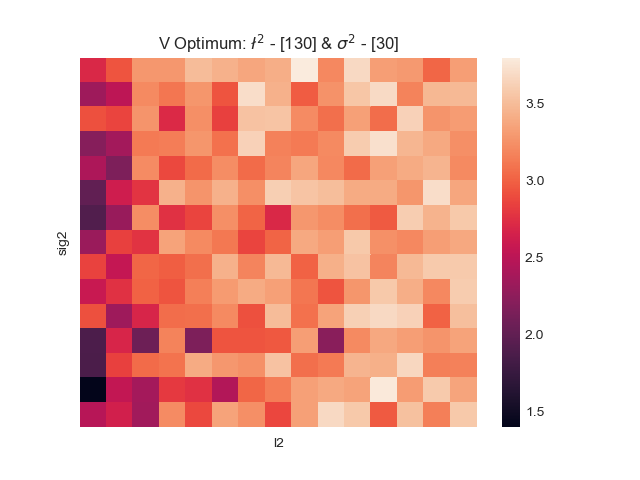
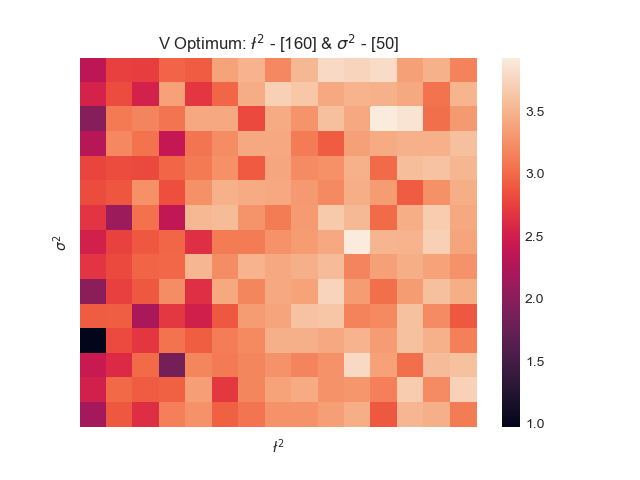
readme complete and symbols in plots updated

diff --git a/OceanFlow.py b/OceanFlow.py
@@ -326,8 +326,8 @@ def hyperparameter_optimization(direction_vector, direction, hyperparameters):
     ax.set_yticklabels(list(sig2))
     ax.set_xticks(np.arange(len(l2)))
     ax.set_yticks(np.arange(len(sig2)))
-    ax.set_xlabel("l2")
-    ax.set_ylabel("sig2")
+    ax.set_xlabel('$\l^2$')
+    ax.set_ylabel('$\sigma^2$')
     ax.set_title(f"{direction} Optimum: $\l^2$ - {max_likelihood['l2']} & $\sigma^2$ - {max_likelihood['sig2']}")
     plt.savefig(f"OceanFlowImages/{direction.upper()}_Parameter_Optimization_Heatmap.png", format="png")
     plt.show()
@@ -335,9 +335,9 @@ def hyperparameter_optimization(direction_vector, direction, hyperparameters):
     fig = plt.figure()
     ax = plt.axes(projection='3d')
     ax.plot_surface(l2_mesh, sig2_mesh, log_like, cmap=cm.coolwarm)
-    ax.set_title(f"{direction} Optimum: l2 - {max_likelihood['l2']} sig2 - {max_likelihood['sig2']}")
-    ax.set_xlabel("l2")
-    ax.set_ylabel("sig2")
+    ax.set_title(f"{direction} Optimum: $\l^2$ - {max_likelihood['l2']} & $\sigma^2$ - {max_likelihood['sig2']}")
+    ax.set_xlabel("$\l^2$")
+    ax.set_ylabel("$\sigma^2$")
     ax.set_zlabel("Log Likelihood")
     norm = mpl.colors.Normalize(vmin=np.min(log_like), vmax=max_likelihood["max_likelihood"])
     fig.colorbar(cm.ScalarMappable(norm=norm, cmap=cm.coolwarm), ax=ax)
@@ -359,6 +359,7 @@ def main():
         9. Optimizes the hyperparameters for both directions to give the highest log likelihood and prints the results
         10. Plots the Gaussian posterior with optimized hyperparameters
         """
+    # Step 1
     try:
         uv_mask_data = np.load("u_3d.npy"), np.load("v_3d.npy"), np.load("mask.npy").astype('bool')
     except FileNotFoundError:
@@ -367,50 +368,40 @@ def main():
 
     u_3d, v_3d, mask = uv_mask_data
 
-    # -------------------------------------------------------------------------------------------------------------#
+    # Step 2
+    ocean_streamplots(*uv_mask_data)
 
-    # ocean_streamplots(*uv_mask_data)
+    # Step 3
+    correlations = find_dipoles(*uv_mask_data, plot=True)
 
-    # -------------------------------------------------------------------------------------------------------------#
-
-    # correlations = find_dipoles(*uv_mask_data, plot=True)
-
-    # -------------------------------------------------------------------------------------------------------------#
-
-
+    # Step 4
     plane_crash_coordinates = [400, 400]
-    # plane_crash(*uv_mask_data, plane_crash_coordinates)
+    plane_crash(*uv_mask_data, plane_crash_coordinates)
 
-    # -------------------------------------------------------------------------------------------------------------#
-
-
+    # Step 5
     l2, sig2 = (10, 1), (1, .1)
     hyperparameters_gaussian_plot = {"l2": l2, "sig2": sig2}
-    # plot_crash_coordinates_gauss_prior(u_3d, v_3d, plane_crash_coordinates, hyperparameters_gaussian_plot)
+    plot_crash_coordinates_gauss_prior(u_3d, v_3d, plane_crash_coordinates, hyperparameters_gaussian_plot)
 
-    # -------------------------------------------------------------------------------------------------------------#
-
+    # Step 6
     plot_crash_coordinates_gauss_posterior(u_3d, v_3d, plane_crash_coordinates, hyperparameters_gaussian_plot,
                                            "gaussian_post")
 
-    # -------------------------------------------------------------------------------------------------------------#
-
+    # Step 7
     # Isolate the data to only look at a 2D array at the specified crash point instead of the entire set
-    crash_u = u_3d[plane_crash_coordinates[0], plane_crash_coordinates[1], :]
-    crash_v = v_3d[plane_crash_coordinates[0], plane_crash_coordinates[1], :]
-
     heatmap_l2 = np.array([50, 30, 10])
     heatmap_sig2 = np.array([30, 20, 10])
-    # kernel_heatmap(10, heatmap_l2, heatmap_sig2)
+    kernel_heatmap(10, heatmap_l2, heatmap_sig2)
 
-
-    # -------------------------------------------------------------------------------------------------------------#
-
+    # Step 8
+    crash_u = u_3d[plane_crash_coordinates[0], plane_crash_coordinates[1], :]
+    crash_v = v_3d[plane_crash_coordinates[0], plane_crash_coordinates[1], :]
     Kfold_hyperparameters = {"l2": 10, "sig2": .05, "tau": 1e-5}
     Kfold_LL = Kfold_function(crash_u, hyperparameters=Kfold_hyperparameters, plot=False)
     print(f"KFold Example - The average log likelihood for l2 = {Kfold_hyperparameters['l2']} and "
           f"sig2 = {Kfold_hyperparameters['l2']} is {Kfold_LL}")
 
+    # Step 9
     l2_opt = np.arange(50, 200, 10)
     sig2_opt = np.arange(30, 180, 10)
     tau_opt = 1e-5
@@ -426,16 +417,10 @@ def main():
     for key, value in max_likelihood_v_params.items():
         print(f"{key}: {value}")
 
-    # Our optimization algorithm has returned an optimal (l2, sig2) of (190, 60) for the U Direction and (190, 50).
-    # Marginal improvements could be made by increasing the granularity of our grid search, but at this point, I feel
-    # like these parameters are good enough for us to begin our model fit.
-    # -------------------------------------------------------------------------------------------------------------#
-    # Let's plot the Gaussian posteriors with these new parameters
-
+    # Step 10
     max_likelihood_params = OceanFlow_utils.zip_dict(max_likelihood_u_params, max_likelihood_v_params)
     plot_crash_coordinates_gauss_posterior(u_3d, v_3d, plane_crash_coordinates, max_likelihood_params,
                                            "gaussian_post_optimized")
-
 
 if __name__ == "__main__":
     main()

diff --git a/README.md b/README.md
@@ -19,8 +19,9 @@ There are 100 csv files for each direction, and each file represents a particula
 
 It's hard to get a sense of what we are actually looking at here with this data. Let's visualize what the ocean flow looks like using Matplotlib's Streamplots and Animation functionalities. We also weight the "arrows" by the velocity, so we see where the current is strongest and how it changes over time.
 
-<center><img src="OceanFlowImages/Streamplots.gif" width="500"></center>
-
+<p align="center">
+<img src="OceanFlowImages/Streamplots.gif" width="500">
+</p>
 
 ### Step 3 - Dipoles & Correlation
 
@@ -35,9 +36,9 @@ Nothing this impactful exists in the data we have, but it is a good exercise to 
 Imagine there is a hypothetical plane crash in the ocean near the Philippines. A search party knows the location of the accident, but some time has elapsed. Where would be the best place to look after time T = t? We can build a simulation of the ocean flows by using the algorithm described in the docstring of plane_crash in OceanFlow.py
 
 For a plane crash at point [400, 400] with an assumed variance of 10 for x and y directions.
-
-<center><img src="OceanFlowImages/PlaneSearch.gif" width="500" class="center"></center>
-
+<p align="center">
+<img src="OceanFlowImages/PlaneSearch.gif" width="500">
+</p>
 
 ### Step 5 - Gaussian Priors
 
@@ -80,6 +81,7 @@ The Gaussian posterior are values sampled from the joint probability distributio
 We are now continuously sampling from a joint distribution that takes into account the ground truth data to get values at a much higher granularity.
 
 Let's look at the same posterior model using the same hyperparameters as before.
+
 <p align="center">
 <img src="OceanFlowImages/gaussian_post.png" width="500">
 </p>
@@ -111,8 +113,10 @@ In this particular model, I chose to use a radial basis function kernel, which h
 One method of hyperparameter selection is to perform a [K-Fold Cross-Validation](https://scikit-learn.org/stable/modules/generated/sklearn.model_selection.KFold.html), which leaves out a 'fold' of the training data and calculates how well the model performs.
 
 <p align="center">
-<center><img src="OceanFlowImages/KFold_Ex.png" width="500" class="center"></center>
-<center>Source: Rebecca Patro - Towards Data Science</center>
+<img src="OceanFlowImages/KFold_Ex.png" width="500" class="center">
+</p>
+<p align="center">
+Source: Rebecca Patro - Towards Data Science
 </p>
 
 But wait, what exactly is the error function here - how do we gauge how well the model performs? Enter maximizing the log-likelihood - this metric tells us the [logarithm of the] likelihood of seeing the posterior function from each iteration of the cross-validation, given the known training data, the training covariance matrix, and the cross-covariance matrix between the training and [artificially] unseen data. It also takes into account both the model-fit and model-complexity. The implementation can be seen in the get_log_likelihood function in OceanFlow_utils.py
@@ -122,10 +126,32 @@ But wait, what exactly is the error function here - how do we gauge how well the
 
 ### Step 9 - Hyperparameter Optimization
 
+Now that we have the framework of cross-validation and log likelihood estimation, optimization is straightforward. We grid search over a range of l<sup>2</sup> and σ<sup>2</sup>, which is implemented in the hyperparameter_optimization function.
 
+Below are heatmaps of log likelihoods with varying length scales and variances. There's no monotonic increase and many, many local optimums. There are probably quite a few parameters that would give decent models, and what we found is likely not even the global maximum likelihood.
+
+
+<p align="center">
+<img src="OceanFlowImages/U_Parameter_Optimization_Heatmap.png" width="500">
+</p>
+<p align="center">
+<img src="OceanFlowImages/V_Parameter_Optimization_Heatmap.png" width="500">
+</p>
+
+Another view of log likelihood as a function of hyperparameters. There is a *general* directional improvement with longer length scales.
+<p align="center">
+<img src="OceanFlowImages/V_Parameter_Optimization.png" width="500">
+</p>
 
 
 ### Step 10 - Optimized Gaussian Posterior
+
+Finally, we have the parameters that will give us the best fit. Let's plot the Gaussian posterior from Step 6.
+
+<p align="center">
+<img src="OceanFlowImages/gaussian_post_optimized.png" width="500">
+</p>
+
 
 
 ##### Sources
@@ -133,3 +159,5 @@ But wait, what exactly is the error function here - how do we gauge how well the
 [Katherine Bailey blog post](https://katbailey.github.io/post/gaussian-processes-for-dummies/) - If you want a slightly more in-depth version
 
 [Gaussian Process for Machine Learning by Rasmussen & Williams](http://www.gaussianprocess.org/gpml/chapters/) - If you want the entire textbook
+
+Credit to MITx - Data Analysis: Statistical Methods & Computation for this data and the skills to perform this analysis.
